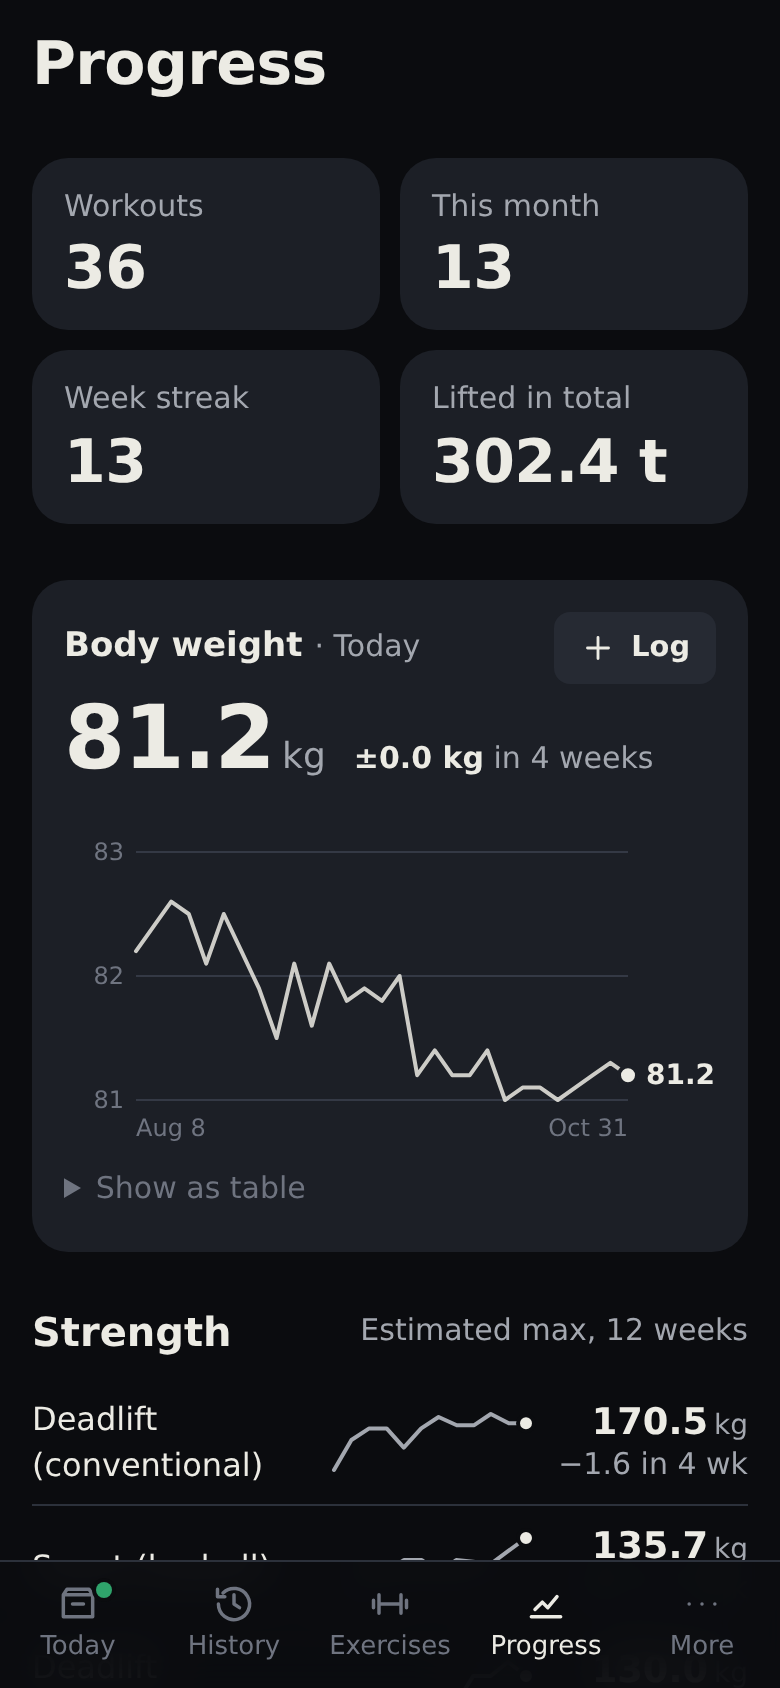
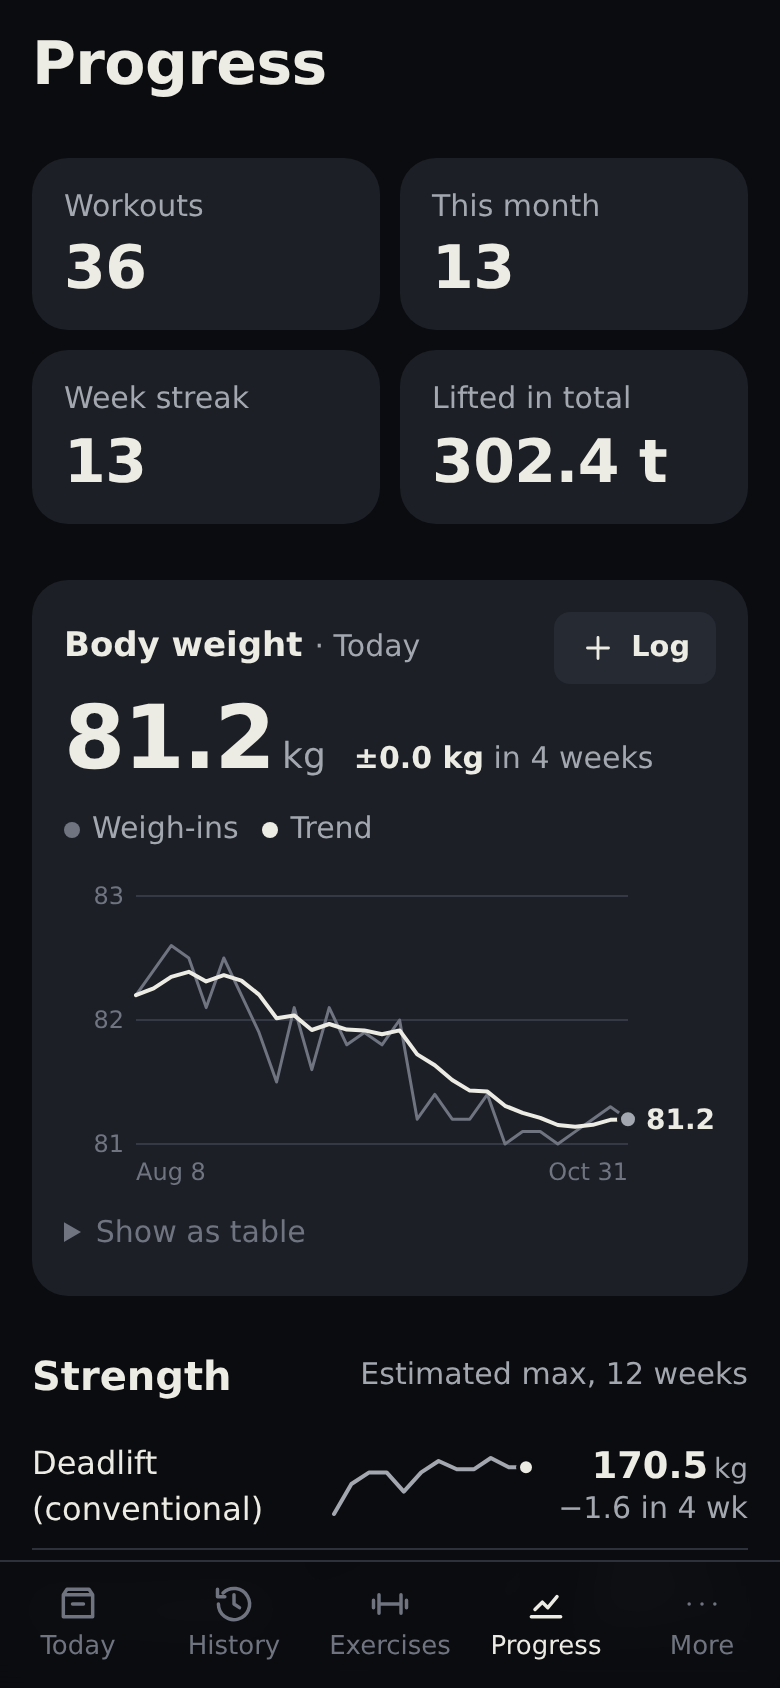
Progress: add a smoothed trend line to the body weight chart

diff --git a/src/lib/components/Chart.svelte b/src/lib/components/Chart.svelte
@@ -5,6 +5,8 @@
     /** Series colour for this mark (e.g. its gym); defaults to chalk. */
     color?: string;
     note?: string;
+    /** Smoothed value at this point; when points carry one, the chart draws it as the main line. */
+    trend?: number;
   }
   export interface LegendItem { label: string; color: string }
 </script>
@@ -38,6 +40,10 @@
     for (const p of sorted) {
       lo = Math.min(lo, p.y);
       hi = Math.max(hi, p.y);
+      if (p.trend !== undefined) {
+        lo = Math.min(lo, p.trend);
+        hi = Math.max(hi, p.trend);
+      }
     }
     if (kind === 'bars') lo = 0;
     if (lo === hi) { lo -= 1; hi += 1; }
@@ -60,7 +66,10 @@
     };
   });
 
-  const path = $derived(sorted.map((p, i) => `${i ? 'L' : 'M'}${scale.x(p.x, i).toFixed(1)},${scale.y(p.y).toFixed(1)}`).join(''));
+  const line = (ys: number[]) => ys.map((y, i) => `${i ? 'L' : 'M'}${scale.x(sorted[i].x, i).toFixed(1)},${scale.y(y).toFixed(1)}`).join('');
+  const path = $derived(line(sorted.map((p) => p.y)));
+  const hasTrend = $derived(kind === 'line' && sorted.length > 0 && sorted.every((p) => p.trend !== undefined));
+  const trendPath = $derived(hasTrend ? line(sorted.map((p) => p.trend!)) : '');
   const fmtDate = (ms: number) => new Date(ms).toLocaleDateString(undefined, { day: 'numeric', month: 'short' });
   const fmt = (v: number) => (Number.isInteger(v) ? v.toLocaleString() : v.toFixed(digits));
 
@@ -114,13 +123,17 @@
               d={barPath(scale.x(p.x, i), scale.y(p.y), scale.y(scale.ticks[0]), Math.min(24, Math.max(2, scale.band - 2)))} />
           {/each}
         {:else}
-          <path class="line" d={path} />
+          <path class="line" class:raw={hasTrend} d={path} />
+          {#if hasTrend}<path class="line trend" d={trendPath} />{/if}
           {#each sorted as p, i (i)}
             {#if p.color || i === sorted.length - 1 || hover === i}
-              <circle cx={scale.x(p.x, i)} cy={scale.y(p.y)} r={hover === i ? 6 : 4.5} fill={p.color ?? 'var(--chalk)'} class="dot" />
+              <circle cx={scale.x(p.x, i)} cy={scale.y(p.y)} r={hover === i ? 6 : 4.5} fill={p.color ?? (hasTrend ? 'var(--chalk-dim)' : 'var(--chalk)')} class="dot" />
+            {/if}
+            {#if hasTrend && hover === i}
+              <circle cx={scale.x(p.x, i)} cy={scale.y(p.trend!)} r={4.5} fill="var(--chalk)" class="dot" />
             {/if}
           {/each}
-          <text class="end num" x={scale.x(last!.x, sorted.length - 1) + 9} y={scale.y(last!.y)} dy="0.32em">{fmt(last!.y)}</text>
+          <text class="end num" x={scale.x(last!.x, sorted.length - 1) + 9} y={scale.y(hasTrend ? last!.trend! : last!.y)} dy="0.32em">{fmt(hasTrend ? last!.trend! : last!.y)}</text>
         {/if}
 
         {#if hp && hover !== null}
@@ -130,6 +143,7 @@
       {#if hp && hover !== null}
         <div class="tip small" style:left="{Math.min(width - 150, Math.max(0, scale.x(hp.x, hover) - 75))}px">
           <strong class="num">{fmt(hp.y)} {unit}</strong>
+          {#if hasTrend}<span class="num">Trend {fmt(hp.trend!)} {unit}</span>{/if}
           <span class="muted">{fmtDate(hp.x)}{hp.note ? `, ${hp.note}` : ''}</span>
         </div>
       {/if}
@@ -137,10 +151,10 @@
     <details class="table small">
       <summary class="faint">Show as table</summary>
       <table>
-        <thead><tr><th>Date</th><th>{unit}</th><th></th></tr></thead>
+        <thead><tr><th>Date</th><th>{unit}</th>{#if hasTrend}<th>Trend</th>{/if}<th></th></tr></thead>
         <tbody>
           {#each [...sorted].reverse() as p, i (i)}
-            <tr><td>{fmtDate(p.x)}</td><td class="num">{fmt(p.y)}</td><td class="muted">{p.note ?? ''}</td></tr>
+            <tr><td>{fmtDate(p.x)}</td><td class="num">{fmt(p.y)}</td>{#if hasTrend}<td class="num">{fmt(p.trend!)}</td>{/if}<td class="muted">{p.note ?? ''}</td></tr>
           {/each}
         </tbody>
       </table>
@@ -158,6 +172,8 @@
   .grid { stroke: var(--iron-3); stroke-width: 1; }
   .tick { fill: var(--chalk-faint); font: 500 12px var(--font-num); }
   .line { fill: none; stroke: var(--chalk); stroke-width: 2; stroke-linejoin: round; stroke-linecap: round; opacity: 0.85; }
+  .line.raw { stroke: var(--chalk-faint); stroke-width: 1.5; opacity: 1; }
+  .line.trend { opacity: 1; }
   .dot { stroke: var(--iron-1); stroke-width: 2; }
   .end { fill: var(--chalk); font-size: 14px; font-weight: 600; }
   .bar.dim { opacity: 0.45; }

diff --git a/src/routes/Progress.svelte b/src/routes/Progress.svelte
@@ -13,12 +13,22 @@
   import { mainLifts } from '../lib/logic/strength';
   import { workoutStats } from '../lib/logic/stats';
   import { tonnes } from '../lib/format';
+  import { weightTrend } from '../lib/logic/trend';
 
   const body = $derived(db().body);
   const stats = $derived(workoutStats(db().sessions, Date.now()));
   const lifts = $derived(mainLifts(historyByExercise(), db().exercises, Date.now()));
   const weights = $derived(body.filter((b) => b.weight !== undefined));
   const latest = $derived(weights.at(-1));
+  // A trend needs a few readings to say more than the readings themselves.
+  const weightPoints = $derived.by(() => {
+    const pts = weights.map((b) => ({ x: Date.parse(b.date), y: b.weight! }));
+    if (pts.length < 3) return pts;
+    const trend = weightTrend(pts);
+    return pts.map((p, i) => ({ ...p, trend: trend[i] }));
+  });
+  const weightLegend = $derived(weightPoints.length >= 3
+    ? [{ label: 'Weigh-ins', color: 'var(--chalk-faint)' }, { label: 'Trend', color: 'var(--chalk)' }] : []);
   const monthAgo = $derived.by(() => {
     if (!latest) return undefined;
     const cutoff = Date.parse(latest.date) - 28 * 86_400_000;
@@ -81,7 +91,7 @@
         {/if}
       </p>
     </div>
-    <Chart title="Body weight" showTitle={false} points={weights.map((b) => ({ x: Date.parse(b.date), y: b.weight! }))} height={160} />
+    <Chart title="Body weight" showTitle={false} points={weightPoints} legend={weightLegend} height={160} />
   </section>
 
   {#if lifts.length}

diff --git a/src/lib/logic/trend.test.ts b/src/lib/logic/trend.test.ts
@@ -1,0 +1,38 @@
+import { describe, expect, it } from 'vitest';
+import { weightTrend } from './trend';
+
+const DAY = 86_400_000;
+const at = (day: number, y: number) => ({ x: day * DAY, y });
+
+describe('weightTrend', () => {
+  it('returns nothing for no readings and the reading itself for one', () => {
+    expect(weightTrend([])).toEqual([]);
+    expect(weightTrend([at(0, 80)])).toEqual([80]);
+  });
+
+  it('moves a tenth of the way per daily reading', () => {
+    const t = weightTrend([at(0, 80), at(1, 90), at(2, 90)]);
+    expect(t[1]).toBeCloseTo(81);
+    expect(t[2]).toBeCloseTo(81.9);
+  });
+
+  it('weighs a reading after a gap like daily readings over that gap', () => {
+    const gap = weightTrend([at(0, 80), at(7, 90)]).at(-1)!;
+    const daily = weightTrend([0, 1, 2, 3, 4, 5, 6, 7].map((d) => at(d, d ? 90 : 80))).at(-1)!;
+    expect(gap).toBeCloseTo(daily);
+  });
+
+  it('smooths out day-to-day noise and stays within the readings', () => {
+    const ys = [80, 81.5, 79.6, 80.8, 79.9, 81.2, 80.1];
+    const t = weightTrend(ys.map((y, d) => at(d, y)));
+    for (const v of t) {
+      expect(v).toBeGreaterThanOrEqual(79.6);
+      expect(v).toBeLessThanOrEqual(81.5);
+    }
+    expect(Math.max(...t) - Math.min(...t)).toBeLessThan(0.5);
+  });
+
+  it('treats same-day readings as a day apart instead of ignoring them', () => {
+    expect(weightTrend([at(0, 80), at(0, 90)])[1]).toBeCloseTo(81);
+  });
+});

diff --git a/src/lib/logic/trend.ts b/src/lib/logic/trend.ts
@@ -1,0 +1,25 @@
+const DAY = 86_400_000;
+
+/** Share of the gap between a reading and the trend that one day closes (10 %, as in The Hacker's Diet). */
+export const TREND_DAILY = 0.1;
+
+/**
+ * Smoothed trend of readings sorted by time: an exponential moving average that weighs each reading by the days
+ * since the previous one, so a week without weighing moves the trend as much as seven daily readings would.
+ * Readings on the same day (or out of order) count as one day apart.
+ */
+export function weightTrend(points: readonly { x: number; y: number }[], daily = TREND_DAILY): number[] {
+  const out: number[] = [];
+  let trend = NaN;
+  let prev = NaN;
+  for (const p of points) {
+    if (out.length === 0) trend = p.y;
+    else {
+      const days = Math.max(1, (p.x - prev) / DAY);
+      trend += (1 - (1 - daily) ** days) * (p.y - trend);
+    }
+    prev = p.x;
+    out.push(trend);
+  }
+  return out;
+}

diff --git a/README.md b/README.md
@@ -130,9 +130,9 @@ Timed exercises progress 5 seconds at a time.
   forgot, remove an exercise, change the name, date and time, length, gym or notes, or delete the whole workout.
   History, records and next targets follow the change.
 - **Progress**: your number of workouts, workouts this month, the weeks in a row you've trained and the total
-  weight lifted; body weight with its trend; your main lifts' estimated max over 12 weeks, with the change in the
-  last 4 (free-weight lifts you train most; tap one for its charts); body measurements (waist, chest, arm, thigh);
-  sets per muscle over the last 7 days; and recent records.
+  weight lifted; body weight with a smoothed trend line that evens out day-to-day swings; your main lifts'
+  estimated max over 12 weeks, with the change in the last 4 (free-weight lifts you train most; tap one for its
+  charts); body measurements (waist, chest, arm, thigh); sets per muscle over the last 7 days; and recent records.
 - **Records**: the best estimated one-rep max; for bodyweight exercises, the most added weight or the most reps;
   for timed exercises, the longest hold.
 
